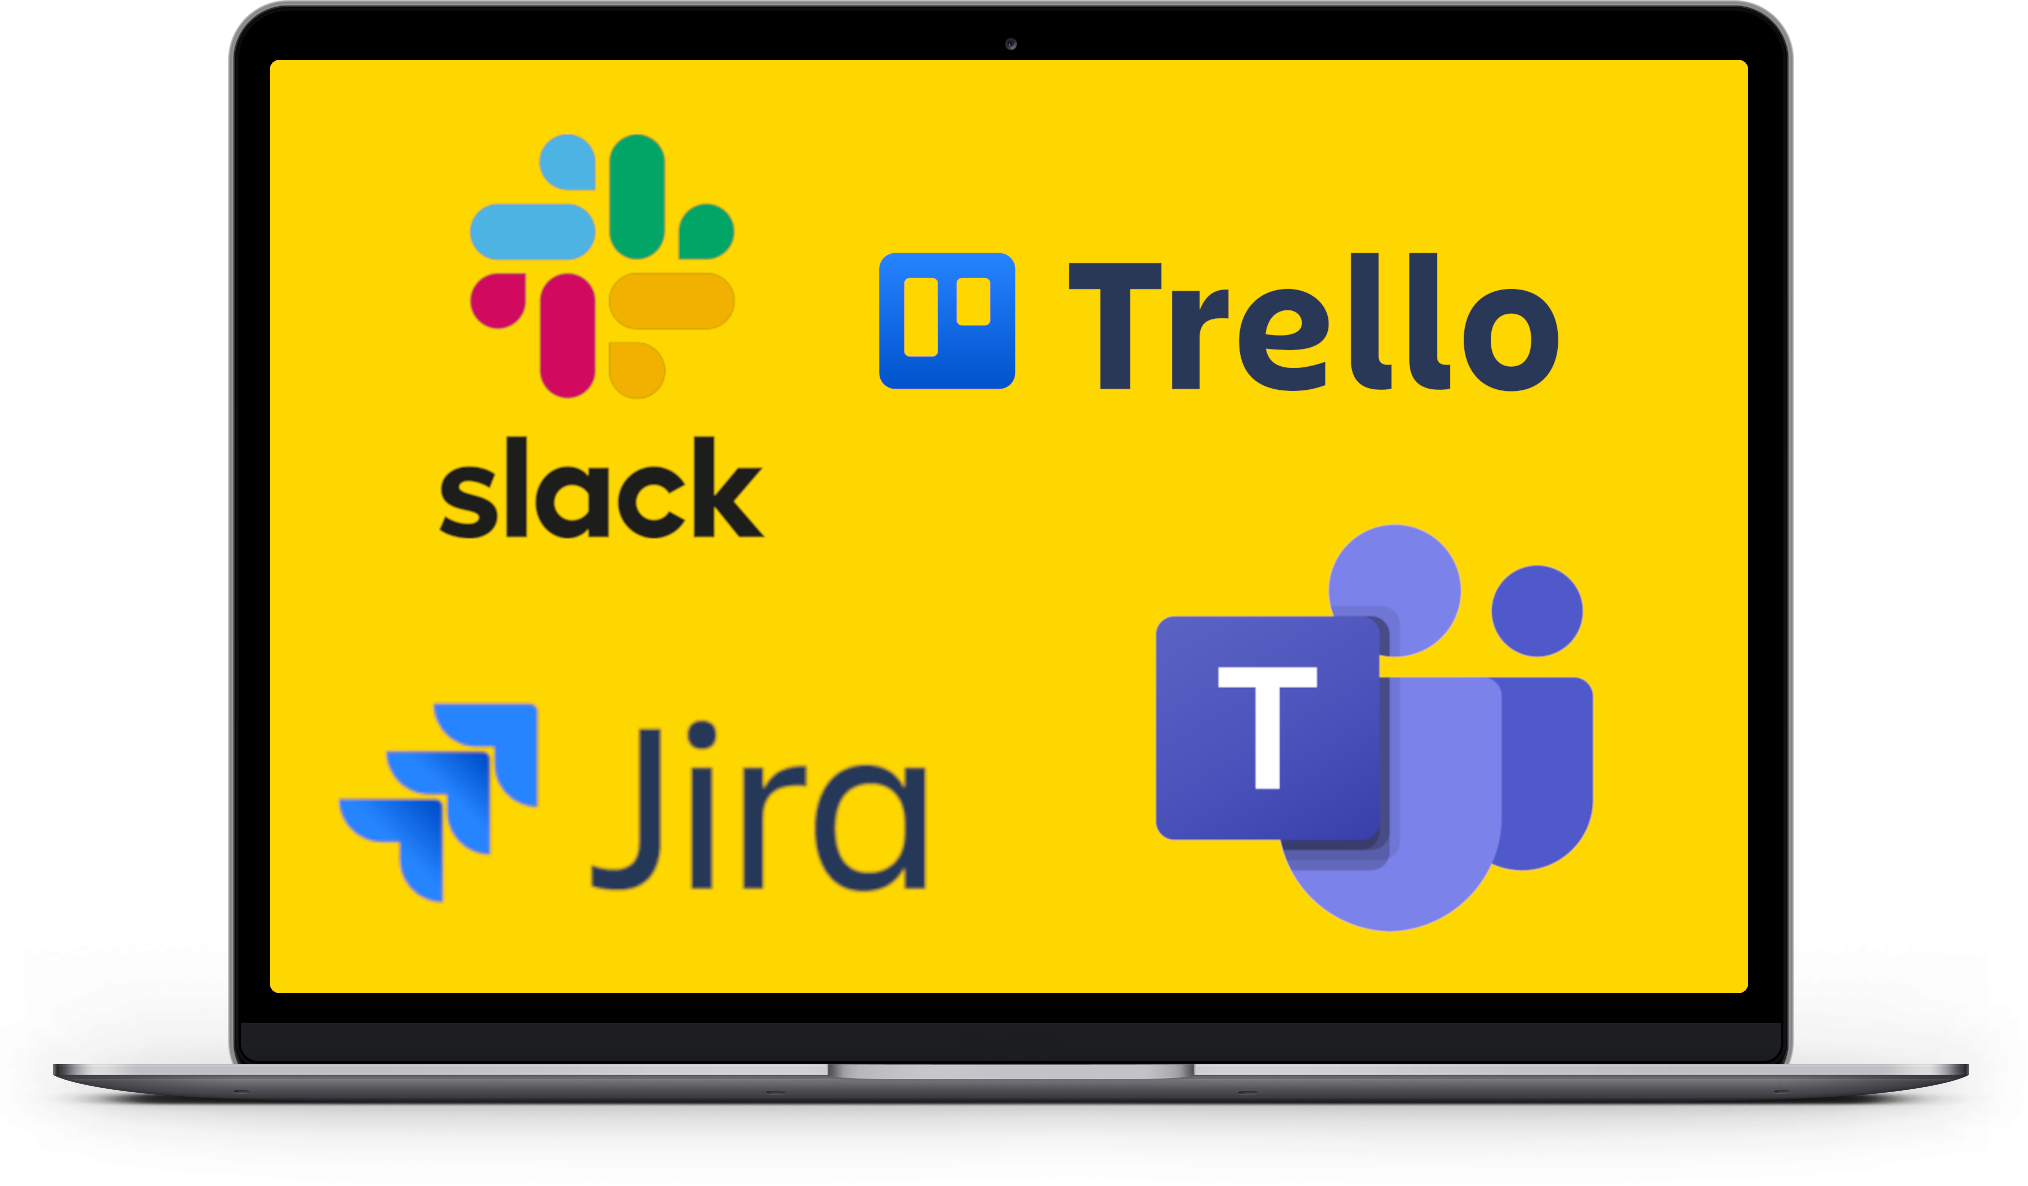
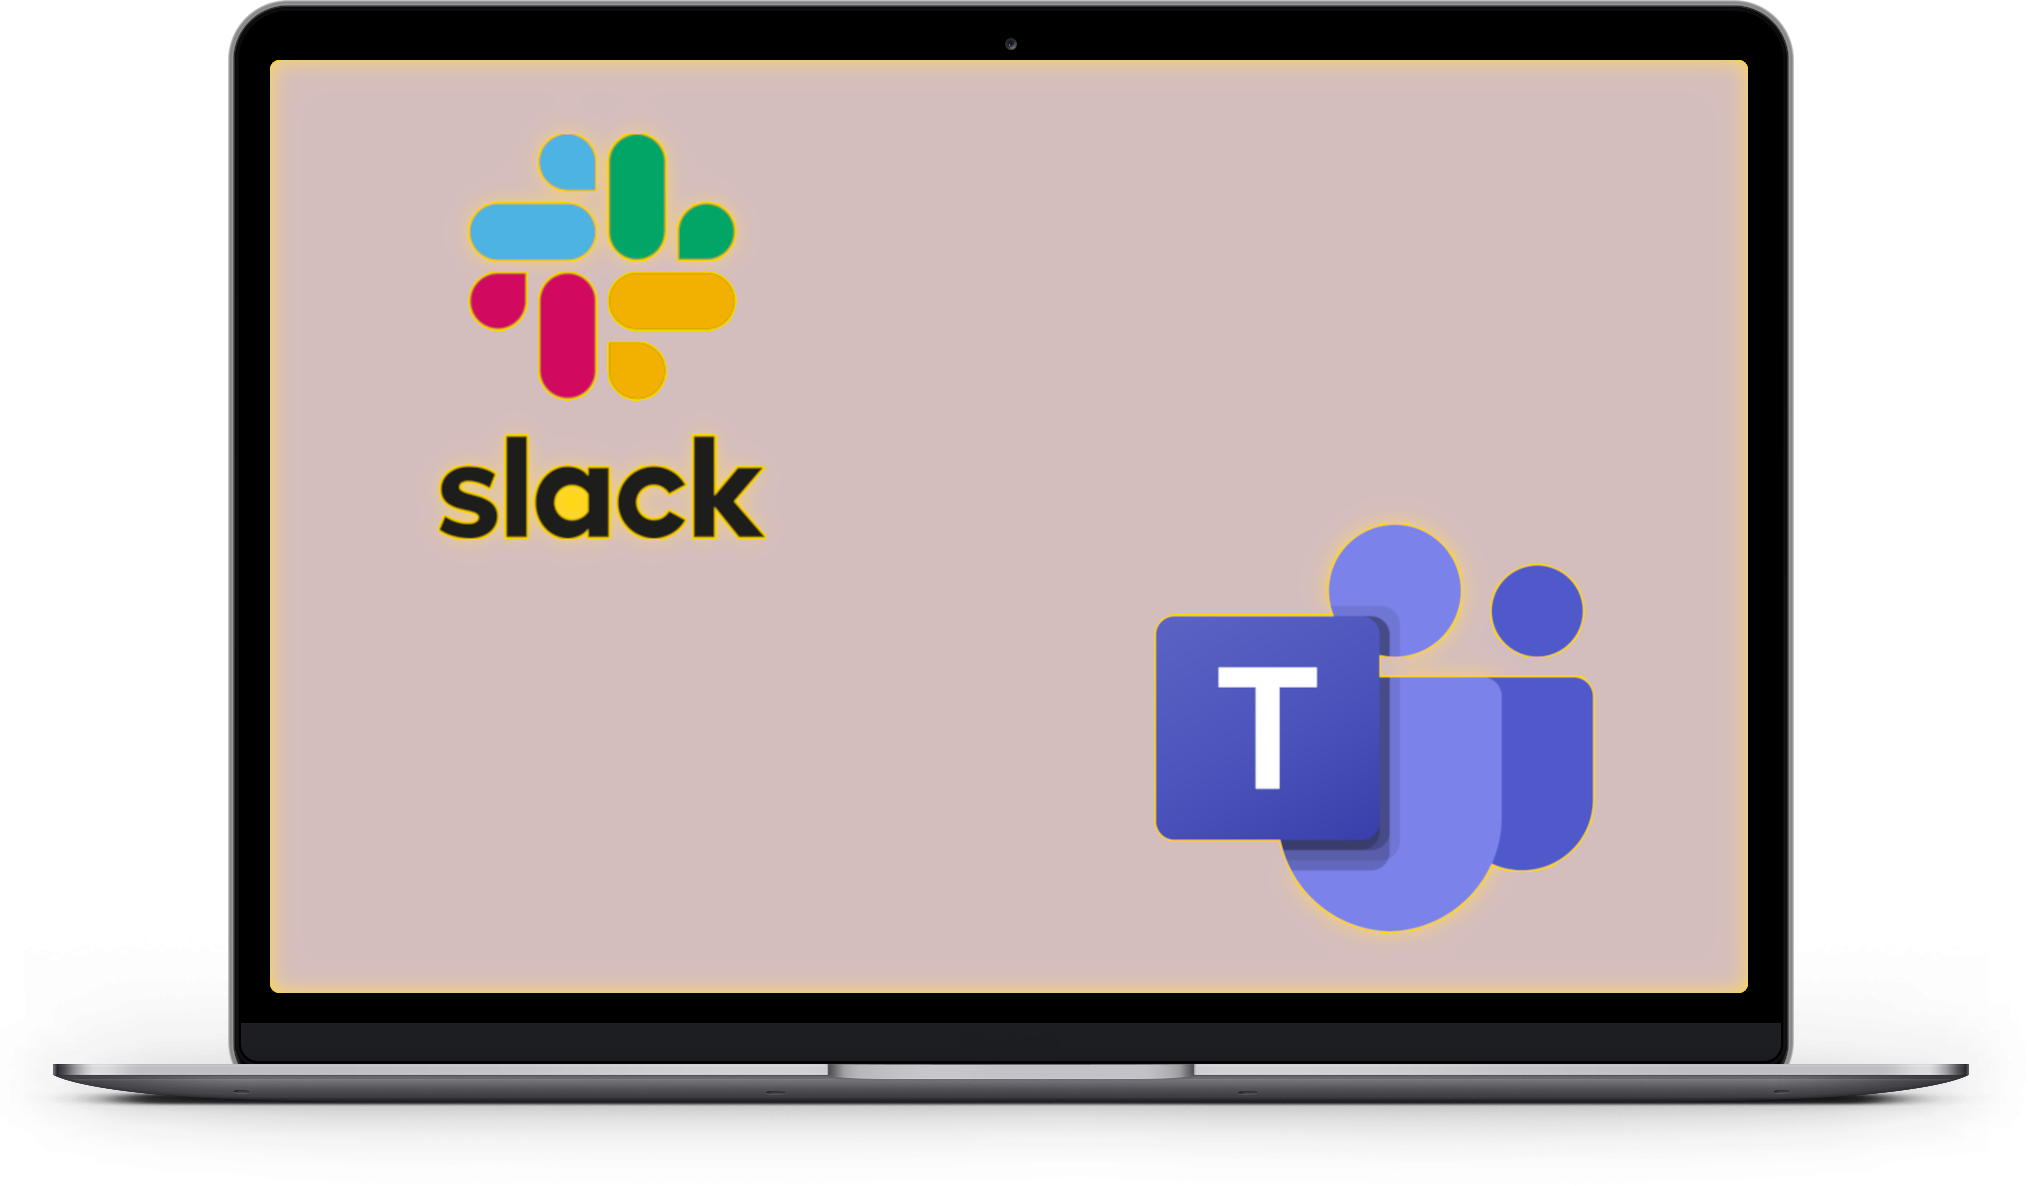
Frosti the PM

diff --git a/Frosti.Web/components/Landing/sections/content/content.js b/Frosti.Web/components/Landing/sections/content/content.js
@@ -8,37 +8,61 @@ export default function Content() {
       <Body
         isStart={false}
         line={true}
-        imgSrc='/imgs/student.png'
-        title='Reduced Fatigue'
+        imgSrc='/imgs/versions.png'
+        title='Natural Language'
         content=
         {
           <p>
-            Frosti collects your updates async, and creates a high level rundown so everyone stays up to date without the hassle of standups.
+            Quickly describe your goals or updates in plain English, and Frosti will convert these into the appropriate task action.
           </p>
         }
       />
       <Body
         isStart={true}
         line={true}
-        imgSrc='/imgs/blonde.png'
-        title='More Honesty'
+        imgSrc='/imgs/lightning.png'
+        title=' Instant Overview'
         content=
         {
           <p>
-            Sometimes, team members might not feel comfortable voicing certain issues. With Frosti, they can report issues in a less pressurized environment.
+            Ask Frosti for a quick snapshot of a project, milestone, or task. Instantly know  what's done, what's on track, amd what's at risk.
           </p>
         }
       />
       <Body
         isStart={false}
         line={true}
-        imgSrc='/imgs/versions.png'
+        imgSrc='/imgs/blonde.png'
+        title='Personalized Insights'
+        content=
+        {
+          <p>
+            Frosti learns from your individual and team habits. See how you're spending your time, where the bottlenecks are, and how to optimize it.
+          </p>
+        }
+      />
+      <Body
+        isStart={true}
+        line={true}
+        imgSrc='/imgs/confidential.png'
+        title='Confidential'
+        content=
+        {
+          <p>
+            Frosti is run Microsoft Azure's OpenAI, so your data is proected by enterprise grade security.
+          </p>
+        }
+      />
+      <Body
+        isStart={false}
+        line={true}
+        imgSrc='/imgs/build.png'
         title='Intelligent'
         soon
         content=
         {
           <p>
-            Frosti can auto update tasks and follow up on blockers, ensuring that progress continues smoothly without needing to chase people for updates.
+            Frosti can follow up on blockers, ensuring that progress continues smoothly without needing to chase people for updates.
           </p>
         }
       />
@@ -51,20 +75,7 @@ export default function Content() {
         content=
         {
           <p>
-            If Frosti fits your team's needs, we’re happy to integrate with platforms like Teams, Slack, and more for seamless collaboration.
-          </p>
-        }
-      />
-      <Body
-        isStart={false}
-        line={true}
-        imgSrc='/imgs/educators.png'
-        title='Data-Driven'
-        soon
-        content=
-        {
-          <p>
-            Frosti learns over time, providing insights into completion, recurring blockers, and other patterns. This can be valuable for optimizing workflows.
+            Chat with Frosti right from Teams, Slack and more.
           </p>
         }
       />

diff --git a/Frosti.Web/components/Landing/sections/intro/intro.js b/Frosti.Web/components/Landing/sections/intro/intro.js
@@ -61,15 +61,15 @@ export default function Intro() {
           <Container componentClass={component} size={'hero'}>
             <div
               className={`${component}__title`} style={{ textAlign: 'center' }}>
-              Frosti the AI: Transforming Standups
+              The AI Transforming Project Management
             </div>
             <Text fw={800} align='center' mb='2rem'>
-              Skip the standup meeting and share updates on your own time
+              Let Frosti automate your task management, and keep you organized— so you can focus on getting things done.
             </Text>
-            <p style={{ textAlign: 'center', fontWeight: '500' }}>Want to try it out? <p style={{ color: '#90ee90', display: 'inline' }}>7</p>/10 spots available</p>
+            <p style={{ textAlign: 'center', fontWeight: '500' }}>Sign up to try the beta for free. <p style={{ color: '#90ee90', display: 'inline' }}>5</p> /10 spots.</p>
             <Grid columns={isMobile ? 2 : 20}>
-              <Grid.Col span={isMobile ? 2 :4}></Grid.Col>
-              <Grid.Col span={isMobile ? 2 :10}>
+              <Grid.Col span={isMobile ? 2 : 4}></Grid.Col>
+              <Grid.Col span={isMobile ? 2 : 10}>
                 <TextInput
                   radius='sm'
                   placeholder="Your email"
@@ -79,7 +79,7 @@ export default function Intro() {
                   onKeyDown={handleKeyDown}
                 />
               </Grid.Col>
-              <Grid.Col span={isMobile ? 2 :2}>
+              <Grid.Col span={isMobile ? 2 : 2}>
                 <Button
                   onClick={handleJoinWaitlist}
                   loading={isClicked}
@@ -91,7 +91,7 @@ export default function Intro() {
                 </Button>
 
               </Grid.Col>
-              <Grid.Col span={isMobile ? 2 :4}></Grid.Col>
+              <Grid.Col span={isMobile ? 2 : 4}></Grid.Col>
             </Grid>
           </Container>
           <hr color='gray' />

diff --git a/Frosti.Web/components/Landing/sections/panels/panels.js b/Frosti.Web/components/Landing/sections/panels/panels.js
@@ -14,17 +14,17 @@ export default function Panels() {
         content: (
           <>
             <p>
-            Frosti is an AI standup assistant that lets you skip daily status meetings and update your team asynchronously. You can share what you’re working on without interrupting your workflow, and Frosti will take care of summarizing and syncing with the rest of your team.
+              Frosti is an AI-powered project management tool designed to simplify how you and your team organize, track, and complete tasks. With real-time automated project updates, Frosti takes the manual work out of managing projects. It's built to help individuals stay on top of their work and teams stay in sync, making collaboration seamless and efficient.
             </p>
           </>
         ),
       },
       {
-        title: "Why should I use Frosti?",
+        title: "Why should my team use Frosti?",
         content:
           (
             <p>
-              If you dread daily standups or find them disruptive, Frosti is for you. It allows you to update your team on your own time, keeps your tasks and progress in check, and reduces unnecessary meetings. Whether you’re working remotely, across time zones, or just hate status meetings, Frosti helps you stay productive without the meeting fatigue.
+              Your team should use Frosti because it saves time and reduces the complexity of managing projects. Frosti automates task assignment, tracks progress, and provides AI-generated insights that highlight bottlenecks and risks before they become issues. By getting instant project overviews and personalized recommendations, your team can focus more on completing work and less on organizing it.
             </p>
           ),
       },
